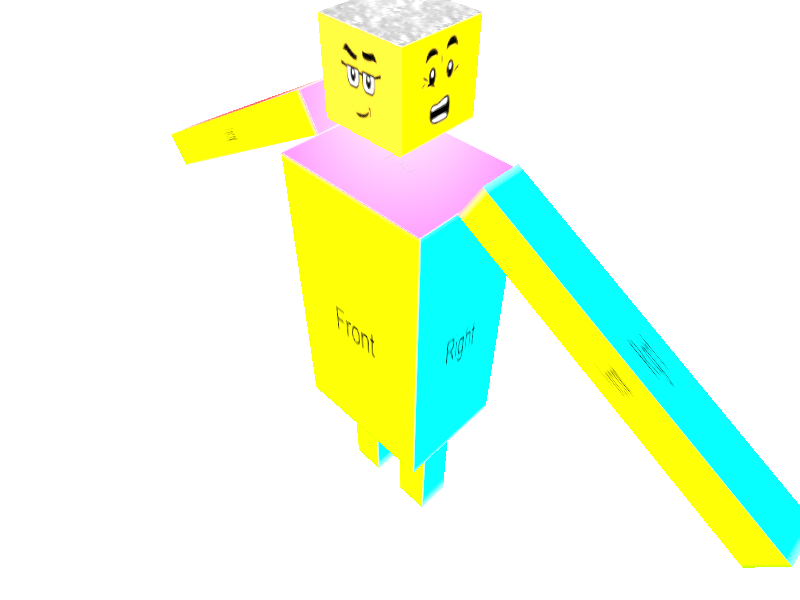
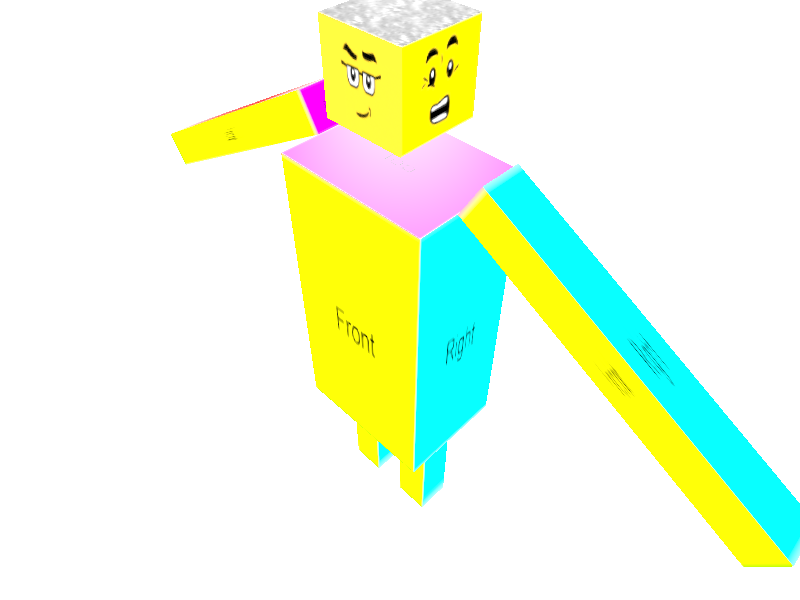
Fixed minor errors in graphics tick2

diff --git a/graphics/tick2/src/uk/ac/cam/cl/gfxintro/erm67/tick2/CubeRobot.java b/graphics/tick2/src/uk/ac/cam/cl/gfxintro/erm67/tick2/CubeRobot.java
@@ -277,8 +277,9 @@ public class CubeRobot {
 
 		// Transformation by a nonorthogonal matrix does not preserve angles
 		// Thus we need a separate transformation matrix for normals
-		Matrix3f normal_matrix = new Matrix3f();
-		//TODO: Calculate normal transformation matrix
+		Matrix3f normal_matrix = new Matrix3f(modelMatrix);
+
+        normal_matrix.invert().transpose();
 
 		shader.uploadMatrix3f(normal_matrix, "normal_matrix");
 
